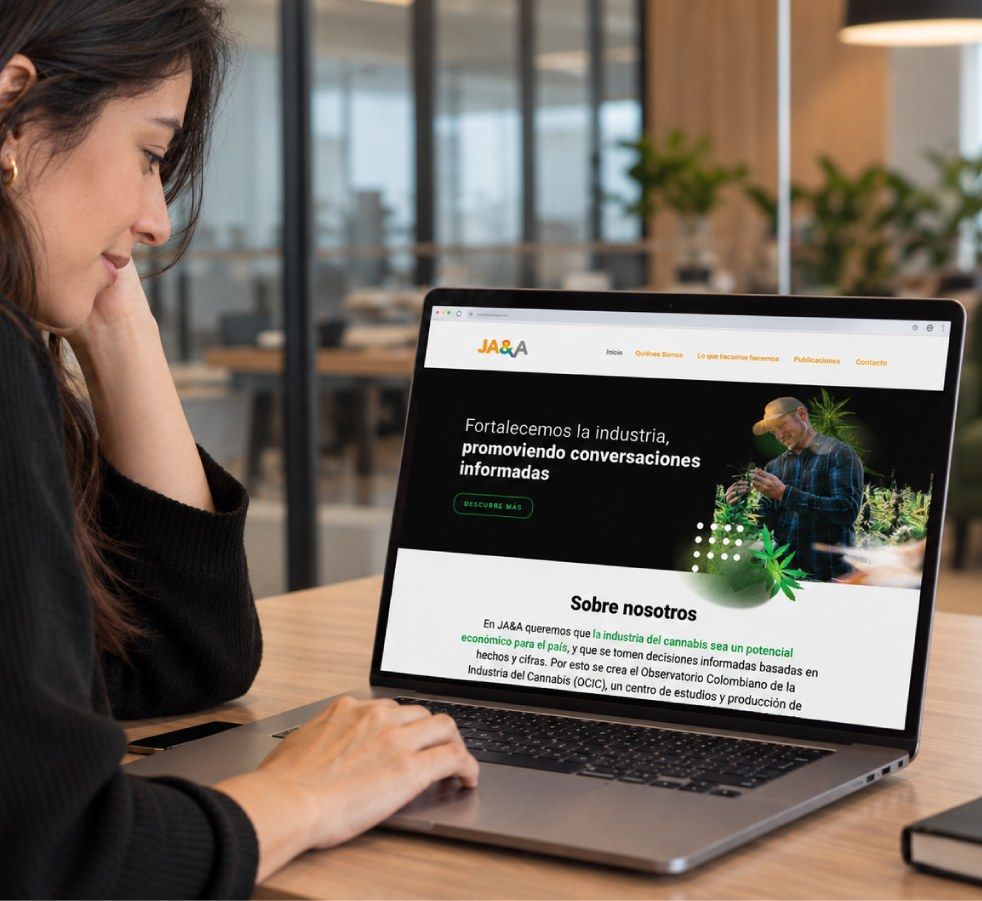
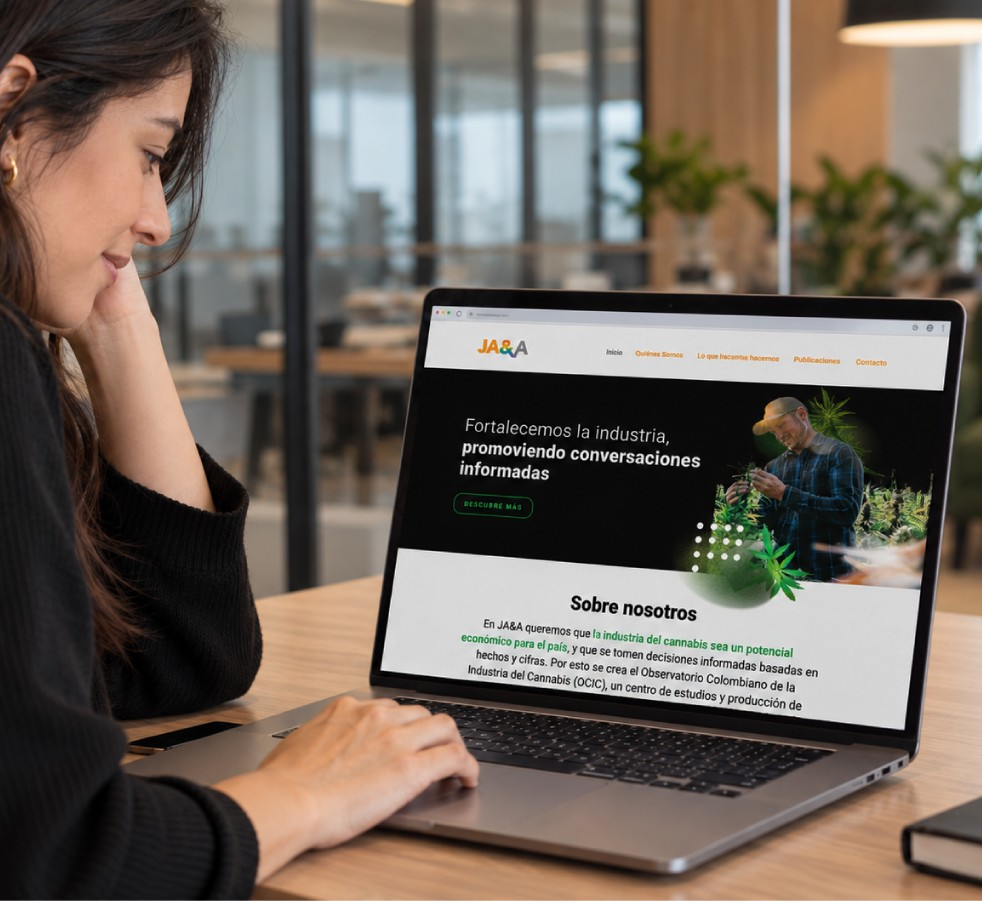
OCIC: sin sección Decisiones, texto de Resultado con sistema de diseño, X en la ficha, leyendas cortas, foto nueva del sitio web, feed con más espacio y sin bloque de video
Claude-Session: https://claude.ai/code/session_01MW95XMuLVyqrNUnbqD2tji

diff --git a/vanessa-proyecto-ocic.html b/vanessa-proyecto-ocic.html
@@ -218,6 +218,7 @@
     letter-spacing: 0.05em; color: var(--muted); margin-bottom: 6px;
   }
   .meta-value{ display: block; font-size: 0.875rem; color: var(--ink); line-height: 1.4; }
+  .meta-label-next{ margin-top: 12px; }
   .meta-ig-link{
     display: inline-flex; align-items: center; gap: 6px;
     transition: opacity 0.2s ease;
@@ -307,7 +308,7 @@
   /* ---- Resultado: feed de redes sociales ---- */
   .feed-grid{
     display: grid; grid-template-columns: repeat(3, 1fr);
-    gap: 3px; margin: 40px 0 0;
+    gap: 8px; margin: 40px 0 0;
   }
   .feed-grid .tile{
     aspect-ratio: 1/1; padding: 8px;
@@ -613,7 +614,6 @@
         <a href="#problema">Problema</a>
         <a href="#contexto">Contexto</a>
         <a href="#investigacion">Investigación</a>
-        <a href="#decisiones">Decisiones</a>
         <a href="#resultado">Resultado</a>
         <a href="#reflexiones">Reflexiones</a>
       </nav>
@@ -641,6 +641,11 @@
             </svg>
             OCIC
           </a>
+          <span class="meta-label meta-label-next">X</span>
+          <a class="meta-value meta-ig-link" href="https://x.com/OBScannabis_Co" target="_blank" rel="noopener">
+            <svg width="14" height="14" viewBox="0 0 24 24" fill="currentColor" aria-hidden="true"><path d="M18.244 2.25h3.308l-7.227 8.26 8.502 11.24H16.17l-5.214-6.817L4.99 21.75H1.68l7.73-8.835L1.254 2.25H8.08l4.713 6.231zm-1.161 17.52h1.833L7.084 4.126H5.117z"/></svg>
+            @OBScannabis_Co
+          </a>
         </div>
       </div>
 
@@ -648,8 +653,7 @@
         <h2>Problema</h2>
         <h3 class="section-subtitle">Comunicar una industria más allá de los estereotipos del cannabis</h3>
         <p>El OCIC buscaba posicionar la industria colombiana del cannabis desde su dimensión económica, científica y empresarial. La comunicación debía llegar a públicos muy distintos: inversionistas del sector medicinal, especialistas en exportación y aduanas, médicos, entidades de gobierno y personas interesadas en el tema.</p>
-        <p><strong>Necesitábamos diferenciarnos de la comunicación asociada al cannabis recreativo y demostrar que el observatorio trabajaba con información, análisis y conocimiento especializado.</strong></p>
-        <p>La identidad debía, por tanto, alejarse de los códigos visuales del consumo sin perder la relación con el sector.</p>
+        <p><strong>Necesitábamos diferenciarnos de la comunicación asociada al cannabis recreativo y demostrar que el observatorio trabajaba con información, análisis y conocimiento especializado.</strong> No se trataba de ocultar la relación con el cannabis, sino de comunicar que el observatorio abordaba el sector desde otro lugar: análisis, regulación, producción, comercio y oportunidades económicas.</p>
 
         <figure class="story-image">
           <img src="ocic_bocetos.jpg" width="1695" height="928" alt="Cuaderno abierto con bocetos a lápiz del logotipo del OCIC: hojas de cannabis, la sigla OCIC, el nombre completo del observatorio y exploraciones de símbolos.">
@@ -685,12 +689,11 @@
         <p class="component-caption">Piezas diseñadas para las redes sociales del observatorio.</p>
       </section>
 
-      <section id="decisiones">
-        <h2>Decisiones</h2>
-        <h3 class="section-subtitle">Diferenciarnos de la comunicación del cannabis recreativo</h3>
-        <p>Una de las decisiones centrales fue establecer una distancia clara frente a los códigos visuales asociados al cannabis recreativo.</p>
-        <p>No se trataba de ocultar la relación con el cannabis, sino de comunicar que el observatorio estaba abordando el sector desde otro lugar: análisis, regulación, producción, comercio y oportunidades económicas.</p>
-        <p>Esto llevó a construir un lenguaje visual más institucional y contemporáneo, capaz de adaptarse a información muy diferente sin depender de la representación literal de la planta o del consumo.</p>
+      <section id="resultado">
+        <h2>Resultado</h2>
+        <p>En lugar de hacer que cada contenido tuviera una solución gráfica completamente nueva, fuimos consolidando un sistema basado en jerarquías claras y recursos visuales que ayudaran a organizar la información. La identidad y el sistema visual se mantuvieron durante los años en los que estuvo activo el proyecto y se aplicaron a redes sociales, campañas, informes, infografías, eventos y piezas audiovisuales.</p>
+
+        <p>El éxito del sistema se vio en lo que permitió después. Con un manual de marca y acceso a los editables, otros diseñadores y el equipo audiovisual pudieron producir nuevas piezas manteniendo la coherencia, sin que cada contenido dependiera de una sola persona. La identidad dejó de ser un conjunto de piezas y pasó a ser un lenguaje que el equipo podía usar y hacer crecer.</p>
 
         <figure class="story-image">
           <img src="ocic_redes_07.jpg" width="1600" height="900" alt="Portada «Ruta de internacionalización del cannabis medicinal»: un contenedor verde abierto con una persona en un cultivo bajo invernadero, cajas sobre un pallet y logos de la Cámara de Comercio de Bogotá y del observatorio.">
@@ -700,37 +703,30 @@
           <div class="sq-items">
             <figure class="sq-item">
               <img class="sq-pic" src="ocic_redes_08.gif" width="1100" height="579" alt="Animación de la pantalla de Adobe Illustrator mientras se arma la portada, con el fondo de contenedores apilados en blanco y negro.">
-              <figcaption><span class="sq-title">Armado de la portada.</span><span class="sq-desc">El proceso en Illustrator, sobre el fondo de contenedores en blanco y negro, hasta llegar a la portada.</span></figcaption>
+              <figcaption><span class="sq-title">Armado de la portada.</span><span class="sq-desc">Evento con la Cámara de Comercio de Bogotá para construir, junto a expertos, una ruta de exportación de cannabis medicinal; las fotos que siguen son de ese evento.</span></figcaption>
             </figure>
             <figure class="sq-item">
               <img class="sq-pic" src="ocic_redes_12.jpg" width="1600" height="1066" alt="Fotografía de cinco participantes sentados en sillas frente a una pared clara, conversando durante el panel.">
-              <figcaption><span class="sq-title">Conversación entre los invitados.</span><span class="sq-desc">Registro fotográfico del panel, con cinco participantes sentados en fila.</span></figcaption>
+              <figcaption><span class="sq-title">Conversación entre los invitados.</span></figcaption>
             </figure>
             <figure class="sq-item">
               <img class="sq-pic" src="ocic_redes_09.jpg" width="1200" height="1287" alt="Invitación «Ruta de internacionalización del cannabis medicinal»: una caja de cartón abierta con plantas de cannabis sobre un calendario, el 3 de noviembre a las 9:30 a. m. vía Zoom.">
-              <figcaption><span class="sq-title">Invitación a la socialización de resultados.</span><span class="sq-desc">Una caja abierta con el cultivo adentro, sobre un calendario, con la fecha, la hora y la transmisión por Zoom.</span></figcaption>
+              <figcaption><span class="sq-title">Invitación a la socialización de resultados.</span></figcaption>
             </figure>
             <figure class="sq-item">
               <img class="sq-pic" src="ocic_redes_10.jpg" width="1181" height="768" alt="Fotografía del evento: tres panelistas sentados frente a un auditorio, con un atril de la Cámara de Comercio de Bogotá y un banner del observatorio.">
-              <figcaption><span class="sq-title">El evento en la Cámara de Comercio.</span><span class="sq-desc">Registro fotográfico de la conversación con el público en sala.</span></figcaption>
+              <figcaption><span class="sq-title">El evento en la Cámara de Comercio.</span></figcaption>
             </figure>
             <figure class="sq-item">
               <img class="sq-pic" src="ocic_redes_11.jpg" width="1200" height="1200" alt="Pieza «Bogotá exporta, Colombia avanza»: fondo verde con cajas sobre un pallet, y los datos del evento: 3 de noviembre, 9:30 a. m., vía Zoom.">
-              <figcaption><span class="sq-title">Bogotá exporta, Colombia avanza.</span><span class="sq-desc">Invitación para socializar los resultados de la Ruta hacia siete países estratégicos, en verde sobre un pallet con cajas.</span></figcaption>
+              <figcaption><span class="sq-title">Bogotá exporta, Colombia avanza.</span></figcaption>
             </figure>
             <figure class="sq-item">
               <img class="sq-pic" src="ocic_redes_13.jpg" width="1456" height="1023" alt="Portada «Cannabis: Abriendo caminos para la internacionalización», con una vista aérea de un barco de contenedores sobre un campo verde y los logos de la Cámara de Comercio de Bogotá y del observatorio.">
-              <figcaption><span class="sq-title">Abriendo caminos para la internacionalización.</span><span class="sq-desc">Portada con el barco de contenedores sobre el cultivo y la palabra «Cannabis» en contorno.</span></figcaption>
+              <figcaption><span class="sq-title">Abriendo caminos para la internacionalización.</span></figcaption>
             </figure>
           </div>
         </div>
-      </section>
-
-      <section id="resultado">
-        <h2>Resultado</h2>
-        <p>En lugar de hacer que cada contenido tuviera una solución gráfica completamente nueva, fuimos consolidando un sistema basado en jerarquías claras y recursos visuales que ayudaran a organizar la información. La identidad y el sistema visual se mantuvieron durante los años en los que estuvo activo el proyecto y se aplicaron a redes sociales, campañas, informes, infografías, eventos y piezas audiovisuales.</p>
-
-        <p>A medida que creció la cantidad de contenidos, el cliente continuó solicitando nuevas piezas y otras personas pudieron producirlas utilizando el sistema existente.</p>
 
         <div class="mockup-grid">
           <img class="wide" src="ocic_editorial_01.jpg" width="2000" height="1089" alt="Folleto institucional del observatorio abierto sobre un fondo verde, junto a una portada cuadrada con una planta de cannabis y el lema «Fortalecemos la industria del cannabis, promoviendo conversaciones informadas».">
@@ -738,21 +734,11 @@
           <img src="ocic_editorial_03.jpg" width="841" height="901" alt="Boletín digital del observatorio: a la izquierda una pieza con un médico y el dato del 73,4 % sobre el uso medicinal de la flor seca; a la derecha la sección «Cannabis picks» y el «Tweet destacado».">
         </div>
         <p class="component-caption">Folleto institucional, sitio web y boletín del observatorio.</p>
-
-        <div class="media-block">
-          <div class="play-button">
-            <svg width="20" height="22" viewBox="0 0 20 22" fill="none">
-              <path d="M1 1.5L18.5 11L1 20.5V1.5Z" stroke="white" stroke-width="1.6" stroke-linejoin="round"/>
-            </svg>
-          </div>
-          <span class="media-caption">animacion_2d3d.mp4</span>
-        </div>
-        <p class="component-caption">Línea de animación 2D/3D desarrollada junto al equipo audiovisual.</p>
       </section>
 
       <section id="reflexiones">
         <h2>Reflexiones</h2>
-        <h3 class="section-subtitle">Diseñar también fue entender un nuevo sector</h3>
+        <h3 class="section-subtitle">Mayor autonomía, mayor confianza al diseñar</h3>
         <p>OCIC fue uno de los proyectos en los que tuve mayor autonomía dentro de Arteaga Latam. Fui construyendo mi comprensión del problema junto al equipo a medida que conocía el sector y sus necesidades de comunicación.</p>
         <p>También fue un proyecto en el que aprendí mucho del trabajo en equipo. Trabajé de cerca con un equipo especializado en agronegocios, aprendiendo a escuchar otras perspectivas, incorporar conocimiento que no era propio de mi disciplina y convertir ese conocimiento en un sistema visual que pudiera crecer con el proyecto.</p>
       </section>
